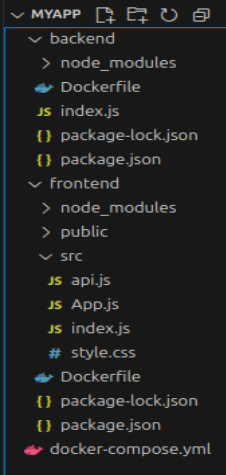
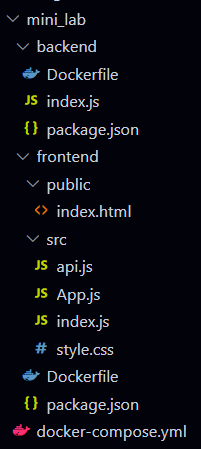
Done week_3

Changed region(s): [[0.0, 0.0, 1.0, 1.0]]

diff --git a/ThangPB_b23dcat274_training/Week-3/report.md b/ThangPB_b23dcat274_training/Week-3/report.md
@@ -201,10 +201,8 @@
 
 ## Phần 3: Mini-lab
 - Cấu trúc thư mục:
-    - Do đây cap lại lúc đã làm xong nên sẽ có cả file build của phần 3.1 và dockerfile của phần 3.2
     
     <img src="./images_3/A30.png" alt="" width="200" height="600">
-
 
 ### 3.1. Triển khai trên VM
 - Cài đặt nodejs:
@@ -227,7 +225,9 @@
 
     <img src="./images_3/a18.png" alt="" width="850" height="60">
 
-- Run frontend: port 3000
+- Build và Run frontend: port 3000
+    - `npm install`
+    - `npm start`
 
     <img src="./images_3/a19.png" alt="" width="850" height="200">
 
@@ -246,7 +246,7 @@
 
 - Dcokerfile cho backemd
 
-    <img src="./images_3/a25.png" alt="" width="350" height="300">
+    <img src="./images_3/a25.png" alt="" width="300" height="300">
 
 - Docker-compose
 
@@ -255,6 +255,7 @@
     <img src="./images_3/a27.png" alt="" width="400" height="500">
 
 - Chạy lệnh: `sudo docker-compose up -d --build`
+    - Check xem các container đang chạy: `sudo docker ps`
     
     <img src="./images_3/a28.png" alt="" width="900" height="100">
 
